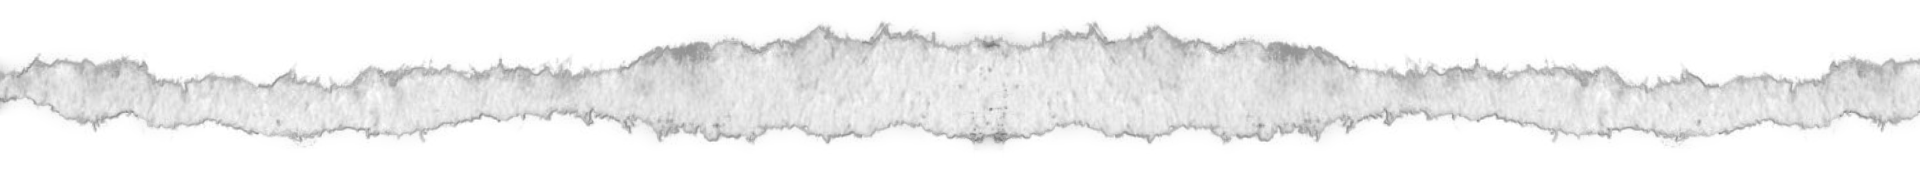
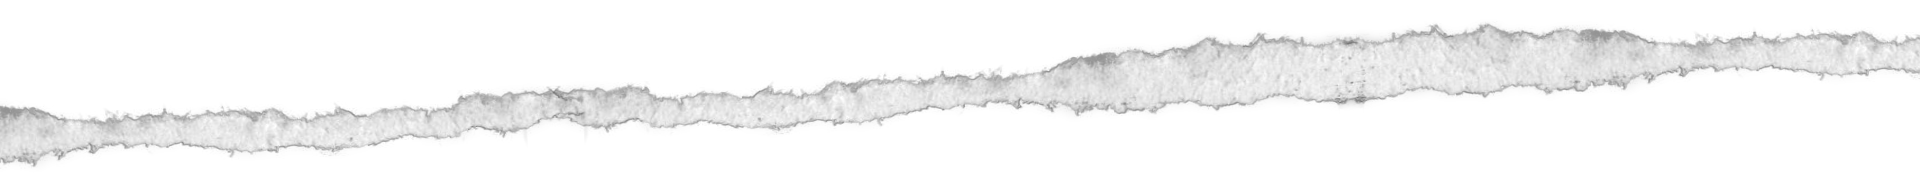
Add files via upload

diff --git a/style.css b/style.css
@@ -304,9 +304,13 @@ INDICADORES
 
 .indicadores{
 
-padding-bottom:180px;
+padding:120px 0;
 
-background:#fff;
+background:var(--roxo);
+
+position:relative;
+
+overflow:hidden;
 
 }
 
@@ -314,9 +318,9 @@ background:#fff;
 
 display:grid;
 
-grid-template-columns:repeat(4,1fr);
+grid-template-columns:repeat(3,1fr);
 
-gap:25px;
+gap:24px;
 
 }
 
@@ -324,69 +328,47 @@ gap:25px;
 
 position:relative;
 
-padding:50px;
+min-height:260px;
 
-background:#fff;
+padding:40px;
 
-border-radius:32px;
+border:1px solid rgba(255,255,255,.25);
+
+border-radius:24px;
+
+background:transparent;
+
+display:flex;
+
+flex-direction:column;
+
+justify-content:space-between;
+
+transition:.35s cubic-bezier(.22,.61,.36,1);
 
 overflow:hidden;
-
-border:1px solid rgba(0,0,0,.05);
-
-transition:.3s;
-
-}
-
-.indicador::before{
-
-content:"";
-
-position:absolute;
-
-width:180px;
-height:180px;
-
-border-radius:50%;
-
-top:-70px;
-right:-70px;
-
-opacity:.15;
-
-}
-
-.indicador:nth-child(1)::before{
-
-background:#F72585;
-
-}
-
-.indicador:nth-child(2)::before{
-
-background:#4CC9F0;
-
-}
-
-.indicador:nth-child(3)::before{
-
-background:#3A0CA3;
-
-}
-
-.indicador:nth-child(4)::before{
-
-background:#F72585;
 
 }
 
 .indicador:hover{
 
-transform:translateY(-10px);
+transform:translateY(-8px);
 
-box-shadow:0 20px 40px rgba(0,0,0,.08);
+border-color:#fff;
+
+background:rgba(255,255,255,.03);
 
 }
+
+/* remove as bolinhas antigas */
+
+.indicador::before{
+
+display:none;
+
+}
+
+/* números */
 
 .indicador strong{
 
@@ -394,23 +376,111 @@ display:block;
 
 font-family:'Bricolage Grotesque',sans-serif;
 
-font-size:4rem;
+font-size:clamp(5rem,8vw,8rem);
 
-line-height:1;
+line-height:.8;
 
-color:var(--roxo);
+letter-spacing:-.06em;
+
+color:#fff;
+
+margin-bottom:20px;
+
+}
+
+/* texto */
+
+.indicador span{
+
+display:block;
+
+font-size:.95rem;
+
+font-weight:700;
+
+line-height:1.35;
+
+letter-spacing:.08em;
+
+text-transform:uppercase;
+
+color:#fff;
+
+max-width:220px;
+
+}
+
+/* primeiro card */
+
+.destaque{
+
+border-color:rgba(255,255,255,.45);
+
+}
+
+/* card 100% */
+
+.indicador-full{
+
+grid-column:1 / -1;
+
+min-height:180px;
+
+align-items:center;
+
+justify-content:center;
+
+text-align:center;
+
+}
+
+.indicador-full strong{
+
+font-size:clamp(7rem,12vw,10rem);
 
 margin-bottom:10px;
 
 }
 
-.indicador span{
+.indicador-full span{
 
-font-size:.85rem;
+max-width:none;
 
-font-weight:800;
+letter-spacing:.20em;
 
-letter-spacing:.12em;
+}
+
+/* responsivo */
+
+@media(max-width:1000px){
+
+.indicadores-grid{
+
+grid-template-columns:repeat(2,1fr);
+
+}
+
+.indicador-full{
+
+grid-column:1 / -1;
+
+}
+
+}
+
+@media(max-width:700px){
+
+.indicadores-grid{
+
+grid-template-columns:1fr;
+
+}
+
+.indicador{
+
+min-height:200px;
+
+}
 
 }
 
@@ -474,7 +544,7 @@ width:100%;
 
 border-radius:40px;
 
-box-shadow:0 30px 80px rgba(0,0,0,.12);
+box-shadow:none;
 
 }
 
@@ -597,7 +667,7 @@ margin:auto;
 
 .manifesto-frases{
 
-padding-top:80px;
+padding-top:100px;
 padding-bottom:120px;
 
 border-top:1px solid rgba(255,255,255,.15);
@@ -610,15 +680,41 @@ display:block;
 
 font-family:'Bricolage Grotesque',sans-serif;
 
-font-size:clamp(3.5rem,8vw,8rem);
+font-size:clamp(4rem,8vw,8rem);
 
 font-weight:800;
 
-line-height:.9;
+line-height:.88;
 
 letter-spacing:-.04em;
 
-margin-bottom:15px;
+margin-bottom:18px;
+
+color:#ffffff;
+
+}
+
+.manifesto-frases strong{
+
+font-weight:inherit;
+
+}
+
+.manifesto-frases span:nth-child(1) strong{
+
+color:var(--rosa);
+
+}
+
+.manifesto-frases span:nth-child(2) strong{
+
+color:var(--azul);
+
+}
+
+.manifesto-frases span:nth-child(3) strong{
+
+color:var(--roxo);
 
 }
 

diff --git a/index.html b/index.html
@@ -76,7 +76,7 @@ href="https://forms.gle/N5GKhWsVZFnq1Dm76"
 target="_blank"
 class="btn-primary">
 
-GARANTIR MINHA VAGA
+FAZER INSCRIÇÃO GRATUITA
 
 </a>
 
@@ -108,24 +108,47 @@ class="hero-colagem">
 
 <div class="indicadores-grid">
 
-<div class="indicador">
-<strong>100%</strong>
-<span>GRATUITO</span>
-</div>
+<div class="indicador destaque">
 
-<div class="indicador">
-<strong>10</strong>
-<span>REGIONAIS</span>
-</div>
-
-<div class="indicador">
-<strong>11</strong>
-<span>FORMAÇÕES</span>
-</div>
-
-<div class="indicador">
 <strong>300H</strong>
-<span>CONSULTORIA</span>
+
+<span>
+CONSULTORIA<br>
+ESPECIALIZADA
+</span>
+
+</div>
+
+<div class="indicador">
+
+<strong>40H</strong>
+
+<span>
+ENCONTROS<br>
+TERRITORIAIS
+</span>
+
+</div>
+
+<div class="indicador">
+
+<strong>11</strong>
+
+<span>
+ENCONTROS<br>
+FORMATIVOS
+</span>
+
+</div>
+
+<div class="indicador indicador-full">
+
+<strong>100%</strong>
+
+<span>
+GRATUITO
+</span>
+
 </div>
 
 </div>
@@ -224,11 +247,11 @@ alt="Rede de apoio">
 
 <div class="manifesto-frases">
 
-<span>COMUNICA ENCONTRO.</span>
+<span>COMUNICA <strong>ENCONTRO.</strong></span>
 
-<span>COMUNICA REDE.</span>
+<span>COMUNICA <strong>REDE.</strong></span>
 
-<span>COMUNICA CONSTRUÇÃO COLETIVA.</span>
+<span>COMUNICA <strong>CONSTRUÇÃO COLETIVA.</strong></span>
 
 </div>
 